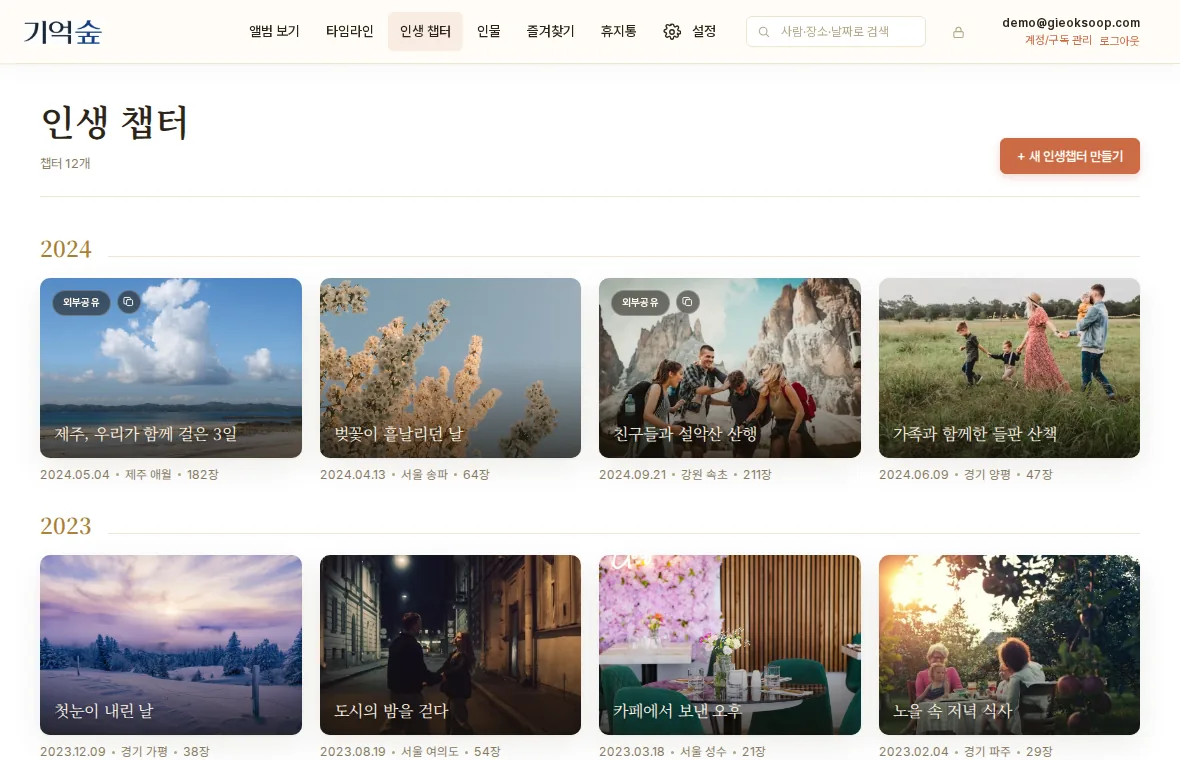
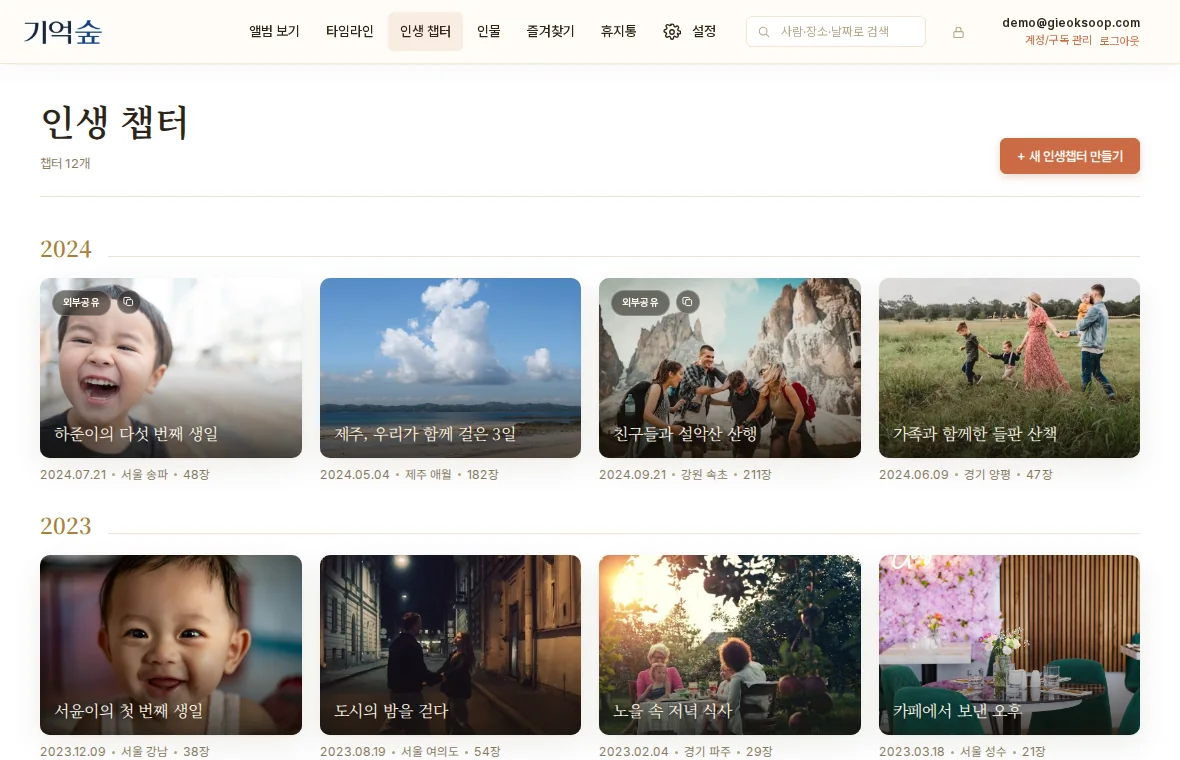
home: 타임라인·인생 챕터 화면에 인물 사진 보강
Claude-Session: https://claude.ai/code/session_01FE5CBbo67tHz65N91AAP61

Changed region(s): [[0.4881, 0.7263, 0.9763, 0.9987], [0.0305, 0.3632, 0.5186, 0.6355], [0.0305, 0.7263, 0.2746, 0.9987]]

diff --git a/index.html b/index.html
@@ -126,7 +126,7 @@
         <p>수천 장의 사진이 "그날의 이야기" 단위로 정리돼요. 폴더를 뒤질 필요 없이, 시간을 따라 내려가며 다시 만나보세요.</p>
         <p class="sub">이름 붙이기도, 폴더 옮기기도 필요 없어요.</p>
       </div>
-      <div class="lp-shot"><img src="img/demo/shot-timeline.webp" width="1180" height="760" alt="기억숲 타임라인 화면 예시" loading="lazy"></div>
+      <div class="lp-shot"><img src="img/demo/shot-timeline.webp" width="1180" height="920" alt="기억숲 타임라인 화면 예시" loading="lazy"></div>
     </div>
 
     <div class="lp-feat rev">
